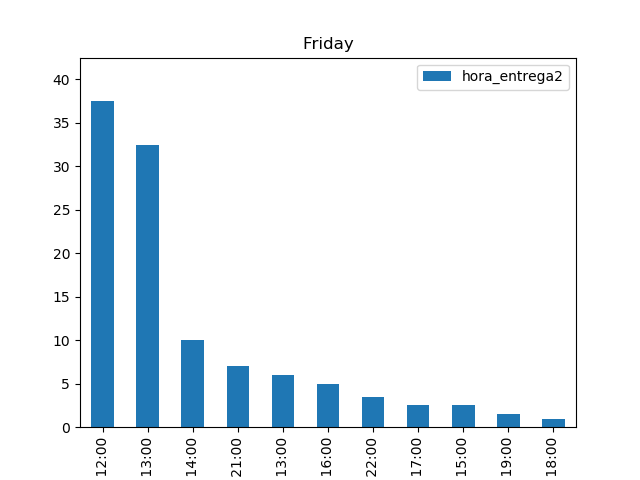
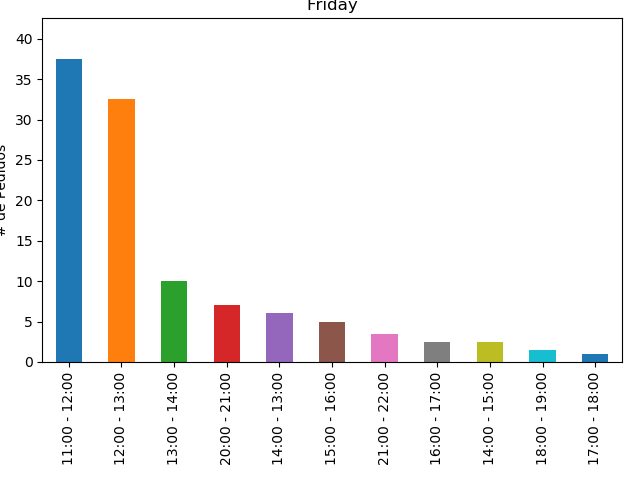
last_details + new graph

diff --git a/data_mod.py b/data_mod.py
@@ -3,7 +3,6 @@ import pandas as pd
 import matplotlib.pyplot as plt
 import calendar
 from datetime import datetime
-
 from pandas import DataFrame
 
 df = pd.read_csv('orders_distrito.csv')
@@ -51,20 +50,19 @@ nom = {}
 
 
 def histoday(dataframe, criterio, day):
-    fig = plt.figure
     v = dataframe.fecha.nunique()
     ddf = pd.DataFrame(dataframe[criterio].value_counts())
     ddf = ddf/v
-    ddf.plot(kind='bar')
     ddf = ddf.assign(percent=ddf/sum(ddf[criterio]))
     globals()['ddf%s_%s' % (day, criterio[0:4])] = ddf
-    plt.xlabel(criterio)
-    # plt.ylabel('Pedidos')
+    fig = plt.figure
+    ddf[criterio].plot(kind='bar')
+    plt.tight_layout()
+    plt.ylabel('# de Pedidos')
     plt.title(nom[day])
     ax = plt.gca()
     ax.set_ylim([0, ddf[criterio].max()+5])
     plt.savefig('graph/%s_by_%s.png' % (nom[day][0:3], criterio[0:4]))
-    plt.tight_layout()
     plt.show()
 
 
@@ -75,5 +73,22 @@ for x in range(0, 7):
     histoday(globals()['df%s' % x], 'distrito', str(x))
 
 # uni = df.fecha.nunique()
-byDay = df.groupby('weekDay')['id_order'].count()
-# df6 = df6.groupby('fecha')['id_order'].count()
+byDay = pd.DataFrame(df.groupby('weekDay')['id_order'].count())
+dayCount = []
+diaNom = []
+for i in byDay.index:
+    dayCount.append(globals()['df%s' % i]['fecha'].nunique())
+    diaNom.append(nom[str(i)])
+byDay = byDay.assign(dias=pd.Series(dayCount))
+byDay = byDay.assign(prom=byDay.id_order/byDay.dias)
+byDay = byDay.assign(dia=pd.Series(diaNom))
+fig = plt.figure
+byDay.plot('dia', 'prom', kind='bar')
+plt.tight_layout()
+plt.ylabel('# de Pedidos')
+plt.title('Orders by dayWeek')
+# ax = plt.gca()
+# ax.set_ylim([0, ddf[criterio].max()+5])
+plt.savefig('day_orders.png')
+plt.show()
+
